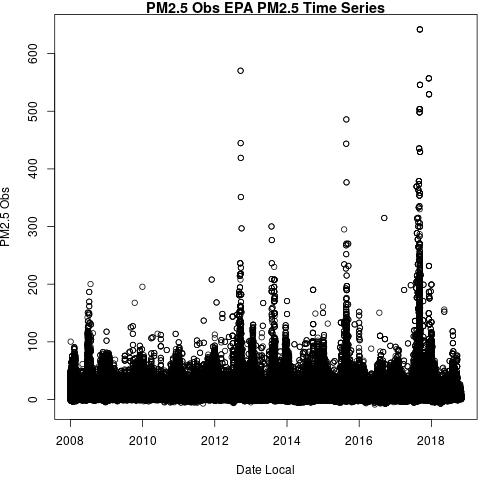
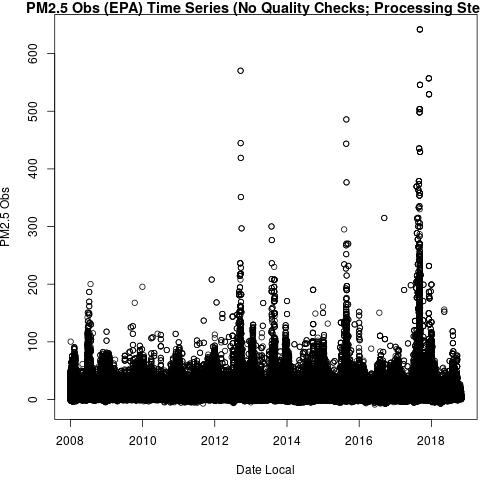
plot EPA data

Changed region(s): [[0.0312, 0.0, 1.0, 0.0312]]

diff --git a/LaTeX_documentation/Code_Outputs/Rgenerated_PM25Source1TSstep1Images.tex b/LaTeX_documentation/Code_Outputs/Rgenerated_PM25Source1TSstep1Images.tex
@@ -2,6 +2,13 @@
 \begin{figure} 
 \centering  
 \includegraphics[width=0.77\textwidth]{Code_Outputs/PM25Source1TSstep1_PM25_ObsvDate_Local.jpg} 
-\caption{\label{fig:PM25Source1TSstep1PM25_ObsvDate_Local}PM2.5 Obs EPA PM2.5 Time Series} 
+\caption{\label{fig:PM25Source1TSstep1PM25_ObsvDate_Local}PM2.5 Obs (EPA) Time Series (No Quality Checks; Processing Step 1)} 
+\end{figure} 
+ 
+
+\begin{figure} 
+\centering  
+\includegraphics[width=0.77\textwidth]{Code_Outputs/PM25Source1TSstep1_MapEPALocations.jpg} 
+\caption{\label{fig:PM25Source1TSstep1MapEPALocations}EPA Monitor Locations (No Quality Checks; Processing Step 1)} 
 \end{figure} 
  
